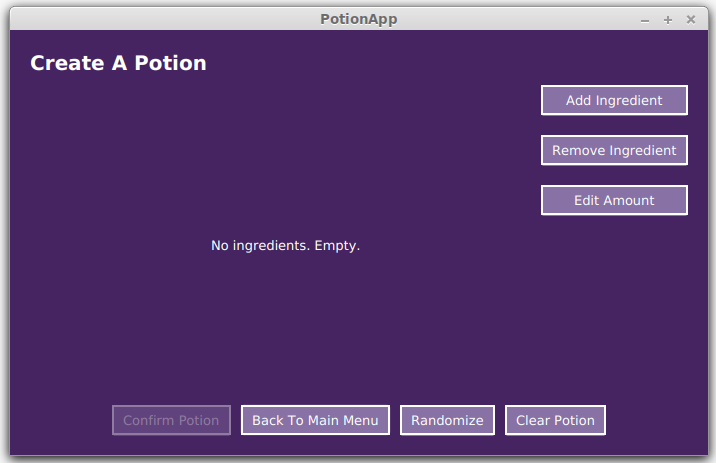
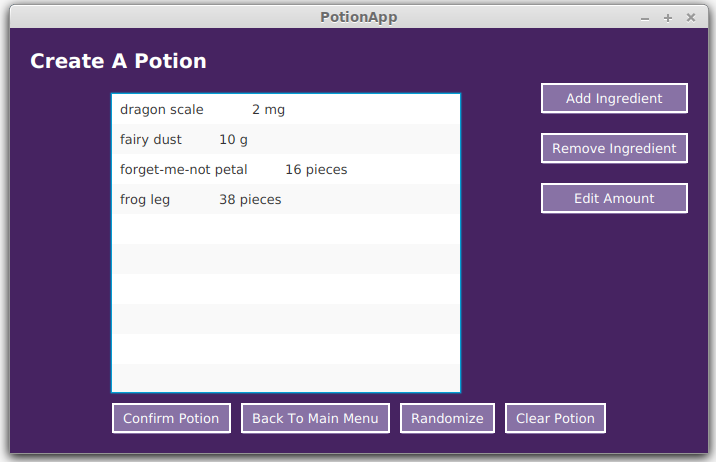
new createpotion

diff --git a/dokumentointi/kayttoohje.md b/dokumentointi/kayttoohje.md
@@ -22,6 +22,8 @@ Kun rohtoon halutut ainesosat ovat lisätty, rohtoon generoidaan "taikaa" painam
 ![Aineslista](https://github.com/ikylios/ot-harjoitustyo/blob/master/dokumentointi/ingredientList.png)
 
 
+Rohtoon lisätään aines klikkaamalla ainesta listasta ja painamalla Add to Potion -nappia.
+
 ## Generated Potion
 ![GeneratedPotion](https://github.com/ikylios/ot-harjoitustyo/blob/master/dokumentointi/generatedPotion.png)
 
@@ -31,19 +33,19 @@ Menemällä takaisin Create A Potion -näkymään rohdon sisältöä voi vielä 
 
 
 
-## IngredientLibrary
+## Ingredient Library
 ![IngredientLibrary](https://github.com/ikylios/ot-harjoitustyo/blob/master/dokumentointi/ingredientLibrary.png)
 
-Ingredient Library listaa rohtoon lisättävät ainekset. Rohtoon lisätään aines klikkaamalla listan ainesta ja klikkaamalla Add to Potion -nappia.
+Ingredient Library listaa rohtoihin lisättävät ainekset.
 
-Käyttäjä voi myös itse lisätä uusia aineksia New Ingredient -napilla. Tällöin avautuu uusi näkymä, jossa annetaan aineksen nimi sekä mittayksikkö (grams/g, milligrams/mg, pieces, jne). On käyttäjän vastuulla pitää mittayksiköt ovat samassa muodossa: sovellus ei hajoa jos eri aineksilla on yksiköt mg ja milligrams, mutta rasittanee käyttäjää.
+Käyttäjä voi itse lisätä uusia aineksia New Ingredient -napilla. Tällöin avautuu uusi näkymä, jossa annetaan aineksen nimi sekä mittayksikkö (grams/g, milligrams/mg, pieces, jne). On käyttäjän vastuulla pitää mittayksiköt ovat samassa muodossa: sovellus ei hajoa jos eri aineksilla on yksiköt mg ja milligrams, mutta rasittanee käyttäjää.
 
 Tallennettuja aineksia voi poistaa kirjastosta Remove Ingredient from Library -napilla.
 
-## PotionLibrary
-![PotionLibrary](https://github.com/ikylios/ot-harjoitustyo/blob/master/dokumentointi/potionLibrary.png)
+## Potion Library
+![Potion Library](https://github.com/ikylios/ot-harjoitustyo/blob/master/dokumentointi/potionLibrary.png)
 
-PotionLibrary listaa kaikki talletetut rohdot. Tallennettuja rohtoja voidaan tarkastella View Potion -nappulalla ja poistaa Delete Potion -nappulalla.
+Potion Library listaa kaikki talletetut rohdot. Tallennettuja rohtoja voidaan tarkastella View Potion -nappulalla ja poistaa Delete Potion -nappulalla.
 
 
 ## Yleisiä huomioita:
